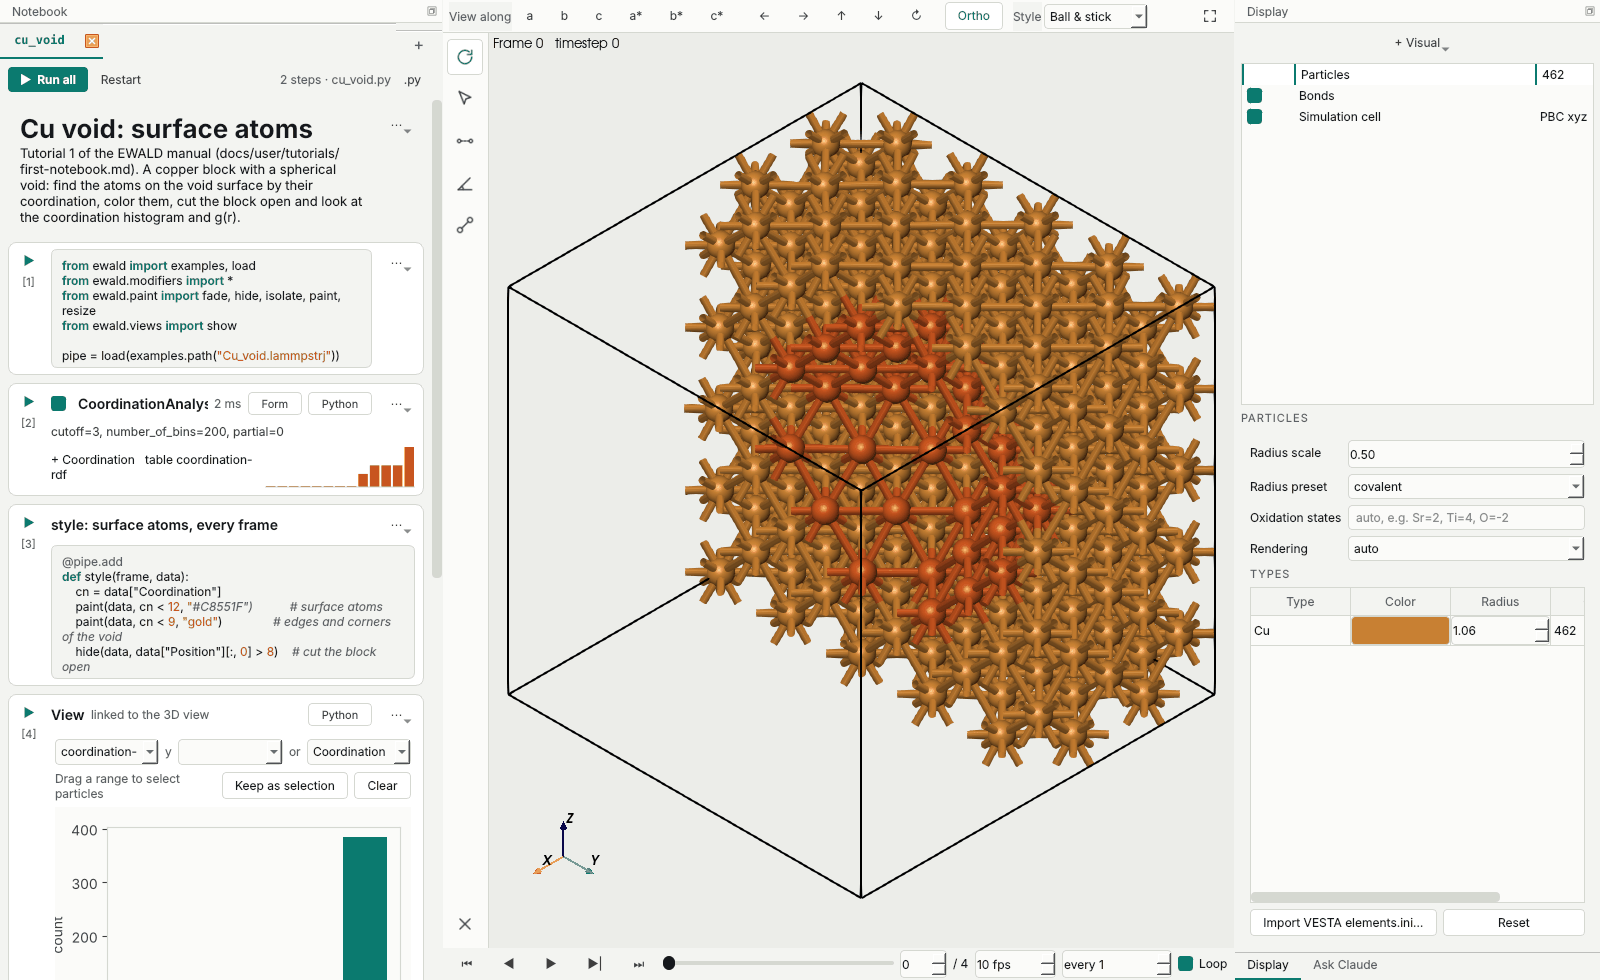
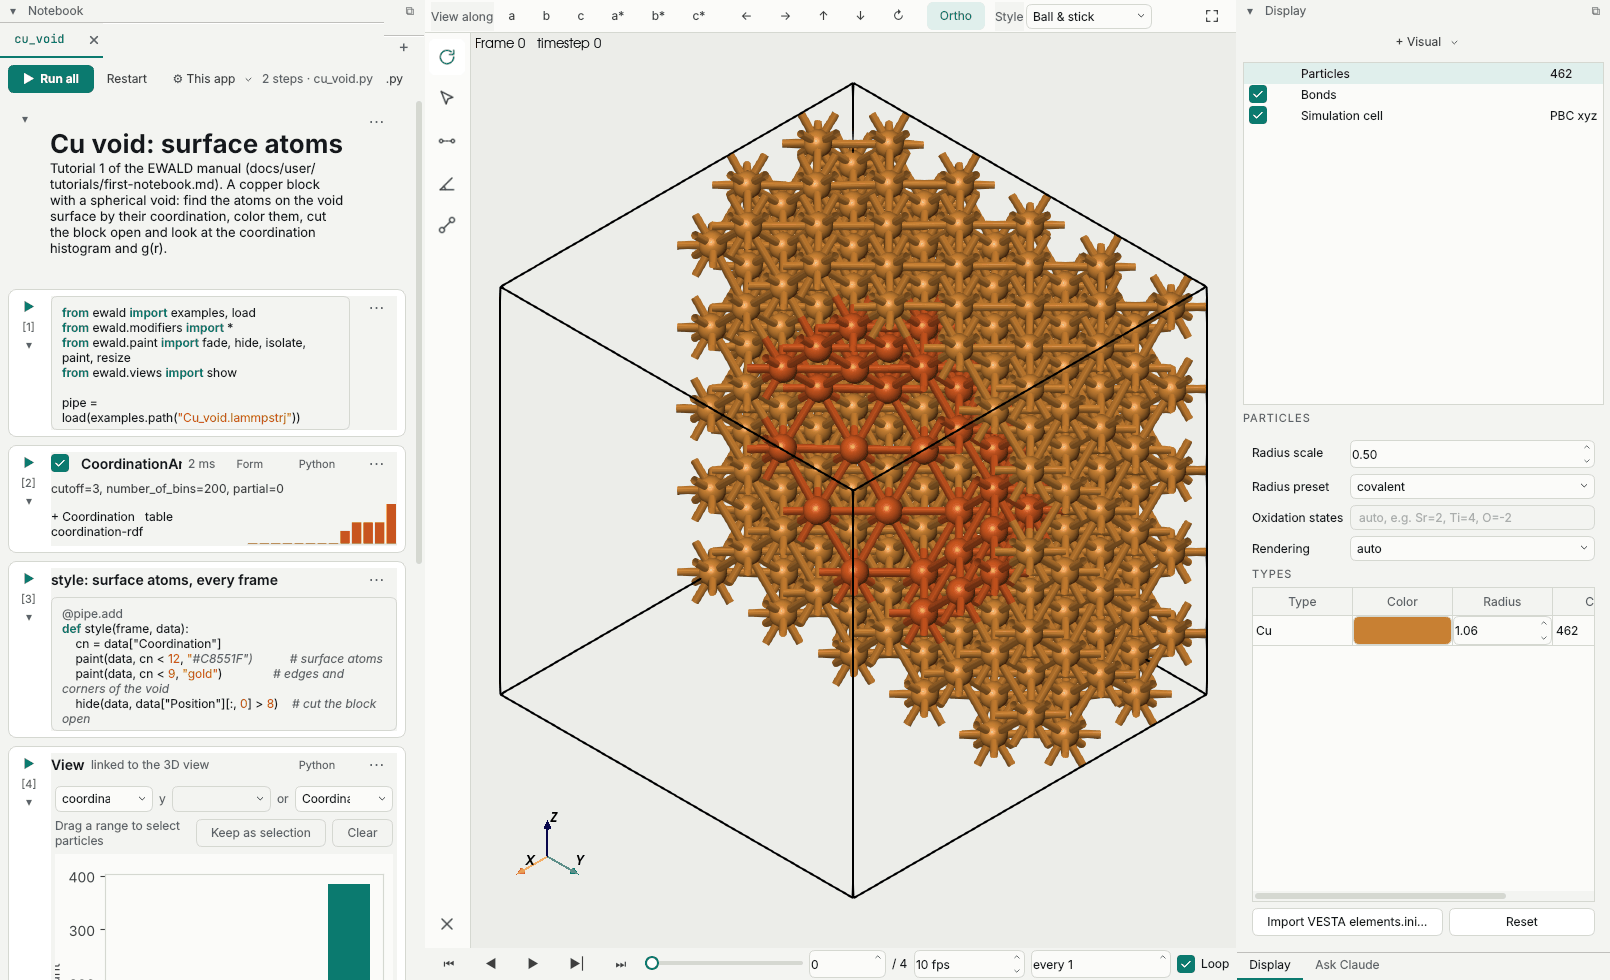
Flat, modern buttons and controls in both UI themes
Tool buttons are borderless ghosts with a soft hover and accent_soft checked state;
push buttons get 6 px radii, hover/pressed/disabled states and a primary hover;
combo boxes and spin boxes draw chevrons from the palette instead of Fusion bevels;
checkboxes show a check mark; tab close buttons are a quiet x instead of the red box;
menu indicators are chevrons (hidden on the cell ⋯ menu); thin overlay scrollbars,
tooltip and slider handle restyled; add-cell buttons become pills. Style-sheet images
are written per palette color (theme.image), so a theme switch no longer keeps the
Paper chevron. Manual screenshots regenerated.

diff --git a/src/ewald/gui/theme.py b/src/ewald/gui/theme.py
@@ -12,18 +12,46 @@ PALETTES = {
         "text": "#15181C", "secondary": "#3D434A", "muted": "#5C636B", "accent": "#0B7A6F",
         "on_accent": "#FFFFFF", "accent_soft": "#E0EFEC", "data": "#C8551F", "data_soft": "#F7E4D9",
         "selection": "#C99A06", "pick": "#C8551F", "error": "#C62828", "ok": "#2E7D32",
-        "viewport": "#ECEDE9",
+        "viewport": "#ECEDE9", "hover": "#E9EBE6", "pressed": "#DFE2DC", "accent_hover": "#0A6B61",
+        "accent_pressed": "#085C53",
     },
     "graphite": {
         "bg": "#14161A", "panel": "#1B1E23", "raised": "#23272E", "border": "#30353D",
         "text": "#E7E9EC", "secondary": "#AEB4BE", "muted": "#8C939E", "accent": "#3FB8A6",
         "on_accent": "#0B1220", "accent_soft": "#1E3A36", "data": "#F08A4B", "data_soft": "#3A2A20",
         "selection": "#E8C547", "pick": "#FFD84D", "error": "#FF6B6B", "ok": "#5BD08A",
-        "viewport": "#14161A",
+        "viewport": "#14161A", "hover": "#2A2F37", "pressed": "#333943", "accent_hover": "#55C6B5",
+        "accent_pressed": "#33A493",
     },
 }
 DEFAULT = "paper"
 TOKENS = dict(PALETTES[DEFAULT])
+
+
+# Small line images the style sheet needs as files (QSS has no inline images), in palette colors.
+_IMAGES = {
+    "chevron": ("secondary", '<path d="M6 9l6 6 6-6"/>'),
+    "chevron_up": ("secondary", '<path d="M6 15l6-6 6 6"/>'),
+    "check": ("on_accent", '<path d="M5 12.5l4.5 4.5L19 7.5"/>'),
+    "close": ("muted", '<path d="M7 7l10 10M17 7 7 17"/>'),
+    "close_hover": ("text", '<path d="M7 7l10 10M17 7 7 17"/>'),
+}
+
+
+def image(name: str, tokens: dict | None = None) -> str:
+    """Path of the style-sheet image ``name`` drawn in the colors of ``tokens`` (the active palette)."""
+    import os
+    import tempfile
+
+    key, path_d = _IMAGES[name]
+    color = (tokens or TOKENS)[key]
+    path = os.path.join(tempfile.gettempdir(), f"ewald-ui-{name}-{color.lstrip('#')}.svg")
+    if not os.path.exists(path):
+        with open(path, "w") as fh:
+            fh.write('<svg xmlns="http://www.w3.org/2000/svg" viewBox="0 0 24 24" fill="none" '
+                     f'stroke="{color}" stroke-width="2.4" stroke-linecap="round" stroke-linejoin="round">'
+                     f'{path_d}</svg>')
+    return path.replace("\\", "/")
 
 
 def use(name: str) -> dict:
@@ -40,25 +68,71 @@ QMenuBar {{ background: {bg}; color: {secondary}; }}
 QMenuBar::item:selected, QMenu::item:selected {{ background: {raised}; color: {text}; }}
 QMenu {{ background: {raised}; border: 1px solid {border}; padding: 4px; }}
 QMenu::separator {{ height: 1px; background: {border}; margin: 4px 8px; }}
-QToolBar {{ background: {bg}; border: none; border-bottom: 1px solid {border}; spacing: 4px; padding: 3px; }}
-QToolButton {{ background: transparent; color: {secondary}; border: 1px solid transparent; border-radius: 4px;
-              padding: 4px 7px; }}
-QToolButton:hover {{ background: {raised}; color: {text}; }}
-QToolButton:checked {{ background: {raised}; color: {accent}; border-color: {border}; }}
-QPushButton {{ background: {raised}; color: {text}; border: 1px solid {border}; border-radius: 4px; padding: 5px 12px; }}
-QPushButton:hover {{ border-color: {accent}; }}
-QPushButton#primary {{ background: {accent}; color: {on_accent}; border: none; font-weight: 600; }}
-QLineEdit, QPlainTextEdit, QTextEdit, QSpinBox, QDoubleSpinBox, QComboBox {{
-    background: {bg}; color: {text}; border: 1px solid {border}; border-radius: 4px; padding: 3px 5px;
+QToolBar {{ background: {bg}; border: none; border-bottom: 1px solid {border}; spacing: 4px; padding: 4px 6px; }}
+QToolBar::separator {{ background: {border}; width: 1px; margin: 6px 6px; }}
+
+/* buttons: flat, no bevels; ghost tool buttons, quiet secondary push buttons, one filled primary */
+QToolButton {{ background: transparent; color: {secondary}; border: none; border-radius: 6px; padding: 5px 8px; }}
+QToolButton:hover {{ background: {hover}; color: {text}; }}
+QToolButton:pressed {{ background: {pressed}; }}
+QToolButton:checked {{ background: {accent_soft}; color: {accent}; }}
+QToolButton:disabled {{ color: {muted}; background: transparent; }}
+QToolButton[popupMode="2"] {{ padding-right: 18px; }}
+QToolButton::menu-indicator {{ image: url("{img_chevron}"); width: 9px; height: 9px;
+    subcontrol-origin: padding; subcontrol-position: center right; right: 5px; }}
+QToolButton::menu-indicator:pressed, QToolButton::menu-indicator:open {{ top: 0; left: 0; }}
+QToolButton#cellMenu {{ font-size: 16px; padding: 0 6px; color: {muted}; }}
+QToolButton#cellMenu::menu-indicator {{ image: none; width: 0; }}
+QToolButton#cellMenu:hover {{ color: {text}; }}
+QPushButton {{ background: {raised}; color: {text}; border: 1px solid {border}; border-radius: 6px; padding: 5px 14px;
+    min-height: 16px; }}
+QPushButton:hover {{ background: {hover}; }}
+QPushButton:pressed {{ background: {pressed}; }}
+QPushButton:checked {{ background: {accent_soft}; color: {accent}; border-color: {accent}; }}
+QPushButton:disabled {{ color: {muted}; background: {panel}; }}
+QPushButton:focus {{ outline: none; }}
+QPushButton::menu-indicator {{ image: url("{img_chevron}"); width: 9px; height: 9px;
+    subcontrol-origin: padding; subcontrol-position: center right; right: 8px; }}
+QPushButton#primary {{ background: {accent}; color: {on_accent}; border: 1px solid {accent}; font-weight: 600; }}
+QPushButton#primary:hover {{ background: {accent_hover}; border-color: {accent_hover}; }}
+QPushButton#primary:pressed {{ background: {accent_pressed}; border-color: {accent_pressed}; }}
+QPushButton#primary:disabled {{ background: {border}; border-color: {border}; color: {muted}; }}
+QPushButton#searchBox {{ text-align: left; color: {muted}; background: {panel}; border: 1px solid {border};
+    border-radius: 6px; padding: 5px 12px; min-width: 320px; font-weight: normal; }}
+QPushButton#searchBox:hover {{ border-color: {muted}; background: {panel}; color: {secondary}; }}
+QToolTip {{ background: {raised}; color: {text}; border: 1px solid {border}; border-radius: 4px; padding: 4px 6px; }}
+
+/* fields */
+QLineEdit, QPlainTextEdit, QTextEdit, QAbstractSpinBox, QComboBox {{
+    background: {bg}; color: {text}; border: 1px solid {border}; border-radius: 6px; padding: 3px 6px;
     selection-background-color: {accent}; selection-color: {on_accent}; }}
-QLineEdit:focus, QPlainTextEdit:focus, QSpinBox:focus, QDoubleSpinBox:focus, QComboBox:focus {{ border-color: {accent}; }}
-QComboBox QAbstractItemView {{ background: {raised}; border: 1px solid {border}; selection-background-color: {raised};
-                               selection-color: {accent}; }}
+QLineEdit:hover, QAbstractSpinBox:hover, QComboBox:hover {{ border-color: {muted}; }}
+QLineEdit:focus, QPlainTextEdit:focus, QAbstractSpinBox:focus, QComboBox:focus {{ border-color: {accent}; }}
+QLineEdit:disabled, QAbstractSpinBox:disabled, QComboBox:disabled {{ color: {muted}; background: {panel}; }}
+QComboBox {{ padding-right: 22px; }}
+QComboBox::drop-down {{ border: none; width: 20px; subcontrol-origin: padding; subcontrol-position: center right; }}
+QComboBox::down-arrow {{ image: url("{img_chevron}"); width: 10px; height: 10px; }}
+QComboBox::down-arrow:on {{ image: url("{img_chevron_up}"); }}
+QComboBox QAbstractItemView {{ background: {raised}; border: 1px solid {border}; border-radius: 6px; padding: 4px;
+    outline: none; selection-background-color: {hover}; selection-color: {text}; }}
+QAbstractSpinBox {{ padding-right: 18px; }}
+QAbstractSpinBox::up-button, QAbstractSpinBox::down-button {{ subcontrol-origin: border; width: 16px; border: none;
+    background: transparent; }}
+QAbstractSpinBox::up-button {{ subcontrol-position: top right; border-top-right-radius: 6px; }}
+QAbstractSpinBox::down-button {{ subcontrol-position: bottom right; border-bottom-right-radius: 6px; }}
+QAbstractSpinBox::up-button:hover, QAbstractSpinBox::down-button:hover {{ background: {hover}; }}
+QAbstractSpinBox::up-arrow {{ image: url("{img_chevron_up}"); width: 8px; height: 8px; }}
+QAbstractSpinBox::down-arrow {{ image: url("{img_chevron}"); width: 8px; height: 8px; }}
+QAbstractSpinBox::up-arrow:disabled, QAbstractSpinBox::up-arrow:off,
+QAbstractSpinBox::down-arrow:disabled, QAbstractSpinBox::down-arrow:off {{ image: none; }}
 QTabWidget::pane {{ border: none; border-top: 1px solid {border}; }}
 QTabBar::tab {{ background: transparent; color: {muted}; padding: 6px 12px; border: none;
                border-bottom: 2px solid transparent; }}
 QTabBar::tab:selected {{ color: {text}; border-bottom-color: {accent}; }}
 QTabBar::tab:hover {{ color: {text}; }}
+QTabBar::close-button {{ image: url("{img_close}"); subcontrol-position: right; border-radius: 4px;
+    width: 14px; height: 14px; margin-left: 4px; }}
+QTabBar::close-button:hover {{ image: url("{img_close_hover}"); background: {hover}; }}
 QDockWidget {{ color: {muted}; titlebar-close-icon: none; }}
 QDockWidget::title {{ background: {bg}; padding: 4px 8px; border-bottom: 1px solid {border}; }}
 QWidget#dockTitle {{ background: {bg}; border-bottom: 1px solid {border}; }}
@@ -69,29 +143,36 @@ QTreeView, QListView, QTableView, QTableWidget {{ background: {bg}; alternate-ba
     border: 1px solid {border}; gridline-color: {border}; selection-background-color: {raised};
     selection-color: {text}; outline: none; }}
 QTreeView::item {{ padding: 3px 2px; }}
-QTreeView::item:selected {{ background: {raised}; border-left: 2px solid {accent}; }}
+QTreeView::item:hover {{ background: {hover}; }}
+QTreeView::item:selected {{ background: {accent_soft}; color: {text}; }}
 QHeaderView::section {{ background: {panel}; color: {muted}; border: none; border-right: 1px solid {border};
                         border-bottom: 1px solid {border}; padding: 4px 6px; }}
 QGroupBox {{ border: 1px solid {border}; border-radius: 6px; margin-top: 14px; padding-top: 6px; }}
 QGroupBox::title {{ subcontrol-origin: margin; left: 8px; padding: 0 4px; color: {secondary}; }}
 QSlider::groove:horizontal {{ height: 4px; background: {border}; border-radius: 2px; }}
 QSlider::sub-page:horizontal {{ background: {accent}; border-radius: 2px; }}
-QSlider::handle:horizontal {{ width: 12px; margin: -5px 0; border-radius: 6px; background: {text}; }}
-QScrollBar:vertical, QScrollBar:horizontal {{ background: {bg}; width: 10px; height: 10px; }}
-QScrollBar::handle {{ background: {border}; border-radius: 4px; min-height: 20px; min-width: 20px; }}
-QScrollBar::add-line, QScrollBar::sub-line {{ width: 0; height: 0; }}
+QSlider::handle:horizontal {{ width: 10px; height: 10px; margin: -5px 0; border-radius: 7px; background: {raised};
+    border: 2px solid {accent}; }}
+QSlider::handle:horizontal:hover {{ background: {accent_soft}; }}
+QScrollBar:vertical, QScrollBar:horizontal {{ background: transparent; border: none; width: 10px; height: 10px; }}
+QScrollBar::handle {{ background: {border}; border-radius: 3px; min-height: 24px; min-width: 24px; margin: 2px; }}
+QScrollBar::handle:hover {{ background: {muted}; }}
+QScrollBar::add-line, QScrollBar::sub-line {{ width: 0; height: 0; border: none; }}
+QScrollBar::add-page, QScrollBar::sub-page {{ background: transparent; }}
 QStatusBar {{ background: {bg}; color: {muted}; border-top: 1px solid {border}; }}
 QLabel#muted {{ color: {muted}; }}
 QLabel#section {{ color: {muted}; font-size: 11px; text-transform: uppercase; letter-spacing: 1px; }}
 QFrame#rail {{ background: {bg}; border-right: 1px solid {border}; }}
 QFrame#viewbar {{ background: {bg}; border-bottom: 1px solid {border}; }}
-QCheckBox {{ color: {text}; }}
-QCheckBox::indicator, QTreeView::indicator, QTableView::indicator {{ width: 13px; height: 13px; border: 1px solid {muted};
-    border-radius: 3px; background: {bg}; }}
-QCheckBox::indicator:checked, QTreeView::indicator:checked {{ background: {accent}; border-color: {accent}; }}
+QCheckBox {{ color: {text}; spacing: 6px; }}
+QCheckBox::indicator, QTreeView::indicator, QTableView::indicator, QListView::indicator {{ width: 14px; height: 14px;
+    border: 1.5px solid {muted}; border-radius: 4px; background: {bg}; }}
+QCheckBox::indicator:hover, QTreeView::indicator:hover, QTableView::indicator:hover {{ border-color: {accent}; }}
+QCheckBox::indicator:checked, QTreeView::indicator:checked, QTableView::indicator:checked,
+QListView::indicator:checked {{ background: {accent}; border-color: {accent}; image: url("{img_check}"); }}
+QCheckBox::indicator:disabled {{ background: {panel}; border-color: {border}; }}
 QFrame#rail QToolButton {{ font-size: 18px; color: {secondary}; }}
 QFrame#rail QToolButton:checked {{ color: {accent}; background: {raised}; }}
-QPushButton#primary:hover {{ background: {accent}; border: none; }}
 
 /* notebook */
 QWidget#notebookPage, QScrollArea#notebookScroll, QScrollArea#notebookScroll > QWidget > QWidget {{ background: {panel}; }}
@@ -105,14 +186,17 @@ QFrame#pluginRow QLabel {{ background: transparent; }}
 QFrame#pluginRow[incompatible="true"] QLabel {{ color: {muted}; }}
 QLabel#pluginSummary {{ color: {secondary}; }}
 QLabel#pluginKinds {{ color: {data}; font-size: 11px; }}
-QPushButton#pluginInstall {{ background: {accent}; color: {on_accent}; border: none; border-radius: 4px; padding: 2px 10px; }}
+QPushButton#pluginInstall {{ background: {accent}; color: {on_accent}; border: none; border-radius: 6px; padding: 3px 12px;
+    font-weight: 600; }}
+QPushButton#pluginInstall:hover {{ background: {accent_hover}; }}
 QPushButton#pluginInstall:disabled {{ background: {border}; color: {muted}; }}
-QPushButton#pluginButton {{ border-radius: 4px; padding: 2px 10px; }}
+QPushButton#pluginButton {{ border-radius: 6px; padding: 3px 12px; }}
 QFrame#cell[current="true"] {{ border: 2px solid {accent}; }}
 QFrame#cell[state="error"] {{ border-color: {error}; }}
 QFrame#cell[state="stale"] {{ background: {panel}; }}
 QFrame#cell QLabel, QFrame#cell QCheckBox {{ background: transparent; }}
-QToolButton#cellRun {{ color: {accent}; padding: 2px 5px; }}
+QToolButton#cellRun {{ color: {accent}; padding: 2px 6px; border-radius: 12px; }}
+QToolButton#cellRun:hover {{ background: {accent_soft}; color: {accent}; }}
 QLabel#cellCounter {{ color: {muted}; font-size: 11px; }}
 QFrame#restrictedBanner {{ background: {data_soft}; border-bottom: 1px solid {data}; }}
 QFrame#restrictedBanner QLabel {{ color: {text}; background: transparent; }}
@@ -130,20 +214,24 @@ QLabel#stepBadge {{ background: {data_soft}; color: {data}; border-radius: 4px; 
 QLabel#stepSummary {{ color: {secondary}; }}
 QLabel#stepResult {{ color: {text}; }}
 QLabel#stepError {{ color: {error}; }}
-QToolButton#segment {{ border: 1px solid {border}; border-radius: 4px; padding: 2px 8px; font-size: 11px; }}
-QToolButton#segment:checked {{ background: {accent_soft}; color: {accent}; border-color: {accent}; }}
-QPushButton#addCell {{ border: 1px dashed {muted}; border-radius: 6px; padding: 5px 10px; color: {secondary}; }}
-QPushButton#addCell:hover {{ border-color: {accent}; color: {accent}; }}
+QToolButton#segment {{ background: {panel}; color: {muted}; border: none; border-radius: 5px; padding: 3px 10px;
+    font-size: 11px; }}
+QToolButton#segment:hover {{ color: {text}; background: {hover}; }}
+QToolButton#segment:checked {{ background: {accent_soft}; color: {accent}; font-weight: 600; }}
+QPushButton#addCell {{ background: transparent; border: 1px solid transparent; border-radius: 14px; padding: 4px 12px;
+    color: {secondary}; font-weight: normal; }}
+QPushButton#addCell:hover {{ background: {accent_soft}; color: {accent}; }}
 QPushButton#addCell::menu-indicator {{ image: none; width: 0; }}
 QTabWidget#notebookTabs QTabBar::tab {{ font-family: "JetBrains Mono", "DejaVu Sans Mono", monospace; padding: 7px 14px; }}
 QTabWidget#notebookTabs QTabBar::tab:selected {{ color: {accent}; border-bottom: 2px solid {accent}; font-weight: 600; }}
-QToolButton#tabNew {{ font-size: 16px; color: {muted}; padding: 2px 10px; }}
+QToolButton#tabNew {{ font-size: 16px; color: {muted}; padding: 0 8px; border-radius: 6px; }}
 QToolButton#tabNew:hover {{ color: {accent}; }}
 """
 
 
 def stylesheet(font_size: int = 12) -> str:
-    return QSS.format(**TOKENS).replace("font-size: 12px", f"font-size: {font_size}px")
+    images = {f"img_{name}": image(name) for name in _IMAGES}
+    return QSS.format(**TOKENS, **images).replace("font-size: 12px", f"font-size: {font_size}px")
 
 
 def current_font_size(app) -> int:

diff --git a/src/ewald/gui/pref_widgets.py b/src/ewald/gui/pref_widgets.py
@@ -1,7 +1,6 @@
 """Small widgets of the Preferences dialog: toggle switch, color and path fields, icons."""
 from __future__ import annotations
 
-import os
 
 from PySide6 import QtCore, QtGui, QtWidgets
 
@@ -41,16 +40,10 @@ def _icon(name, color, size=18) -> QtGui.QPixmap:
 
 
 def _chevron() -> str:
-    """Down-arrow image for combo boxes (QSS needs a file)."""
-    import tempfile
+    """Down-arrow image for combo boxes (QSS needs a file), in the active palette."""
+    from .theme import image
 
-    path = os.path.join(tempfile.gettempdir(), "ewald-chevron.svg")
-    if not os.path.exists(path):
-        with open(path, "w") as fh:
-            fh.write('<svg xmlns="http://www.w3.org/2000/svg" viewBox="0 0 24 24" fill="none" '
-                     f'stroke="{TOKENS["secondary"]}" stroke-width="2.5" stroke-linecap="round" '
-                     'stroke-linejoin="round"><path d="M6 9l6 6 6-6"/></svg>')
-    return path.replace("\\", "/")
+    return image("chevron")
 
 
 def _hex(c) -> str:

diff --git a/src/ewald/gui/preferences.py b/src/ewald/gui/preferences.py
@@ -78,6 +78,7 @@ QListWidget#nav::item:selected {{ background: {raised}; color: {text}; border-le
 QScrollArea#content, QWidget#contentInner {{ background: {bg}; border: none; }}
 QWidget#contentInner QLabel, QWidget#contentInner QWidget#noteHolder {{ background: transparent; }}
 QFrame#card QAbstractSpinBox::up-button, QFrame#card QAbstractSpinBox::down-button {{ width: 0px; border: none; }}
+QFrame#card QAbstractSpinBox::up-arrow, QFrame#card QAbstractSpinBox::down-arrow {{ image: none; width: 0px; }}
 QFrame#card QComboBox::drop-down {{ border: none; width: 22px; }}
 QFrame#card QComboBox::down-arrow {{ image: url("{chevron}"); width: 10px; height: 10px; margin-right: 8px; }}
 QLabel#pageTitle {{ font-size: 20px; font-weight: 600; color: {text}; }}

diff --git a/src/ewald/gui/window_menus.py b/src/ewald/gui/window_menus.py
@@ -94,7 +94,7 @@ class MenusMixin:
         tb.addSeparator()
         search = QtWidgets.QPushButton("  Search commands, steps, cells…      Ctrl K" if nb else
                                        "  Search commands, modifiers…      Ctrl K")
-        search.setStyleSheet(f"text-align: left; color: {TOKENS['muted']}; background: {TOKENS['panel']}; min-width: 320px;")
+        search.setObjectName("searchBox")
         search.clicked.connect(self.command_palette)
         tb.addWidget(search)
         spacer = QtWidgets.QWidget()

diff --git a/docs/todo.md b/docs/todo.md
@@ -13,6 +13,9 @@ it removes the items it finishes, adds what it leaves open, and moves its own li
 
 GUI
 
+- UI style (flat buttons, fields, checkboxes and tab close icons in `gui/theme.py`): a few widgets
+  still set inline colors (render preview, pick labels, color swatches, field error borders), so
+  they keep the old palette until a restart after a theme switch; move them to QSS object names.
 - Notebook layout: the viewport could follow the current notebook even when it has no
   pipeline yet (now it keeps the last one); 3D snapshot views (`show(pipe, frame=...)` drawing
   the structure) and image/figure cells; drag cells to reorder; inline
